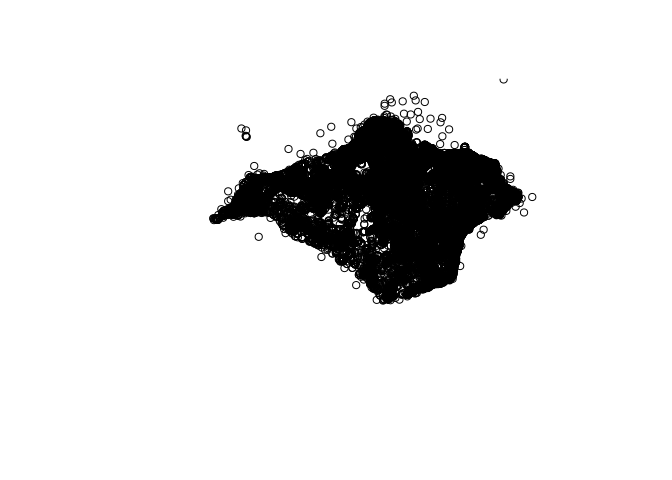
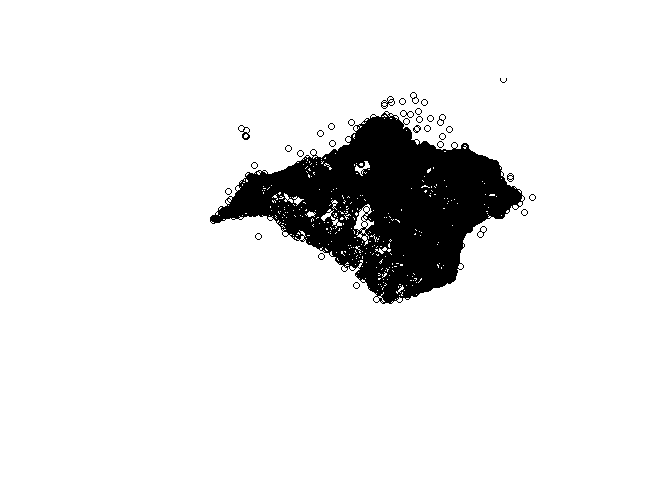
update .md

diff --git a/README.md b/README.md
@@ -47,15 +47,19 @@ cycleways_england = opq("England") %>%
 # The data included in this document is from www.openstreetmap.org. The data is made available under ODbL. runtime error: Query timed out in "query" at line 4 after 26 seconds. 
 ```
 
-The query stops with an error message after around 10 seconds. The same
+The query stops with an error message after around 30 seconds. The same
 query can be made with `osmextract` as follows, which reads-in almost
-100k linestrings in less than 10 seconds (after the data has been
+100k linestrings in less than 10 seconds, after the data has been
 downloaded in the compressed `.pbf` format and converted to the open
-standard `.gpkg` format, not evaluated):
+standard `.gpkg` format. The download-conversion operation of the OSM
+extract associated to England takes approximately a few minutes, and
+this operation must be executed only once. The following code chunk is
+not evaluated:
 
 ``` r
 library(osmextract)
-#> Data (c) OpenStreetMap contributors, ODbL 1.0. https://www.openstreetmap.org/copyright
+#> Data (c) OpenStreetMap contributors, ODbL 1.0. https://www.openstreetmap.org/copyright.
+#> Any product made from OpenStreetMap must cite OSM as the data source.
 #> Geofabrik data are taken from https://download.geofabrik.de/
 #> For usage details of bbbike data see https://download.bbbike.org/osm/
 ```
@@ -66,10 +70,11 @@ cycleways_england = oe_get(
   quiet = FALSE,
   query = "SELECT * FROM 'lines' WHERE highway = 'cycleway'"
 )
+par(mar = rep(0.1, 4))
 plot(sf::st_geometry(cycleways_england))
 ```
 
-<img src="https://user-images.githubusercontent.com/1825120/87085554-f77e8b00-c227-11ea-914a-936b8be23132.png" width="100%" />
+<img src="https://user-images.githubusercontent.com/22221146/89990770-22bf2480-dc83-11ea-9092-764594534959.png" width="100%" />
 
 The package is designed to complement `osmdata`, which has advantages
 over `osmextract` for small datasets: `osmdata` is likely to be quicker
@@ -119,18 +124,19 @@ library(sf)
 ## Basic usage
 
 Give `osmextract` a place name and it will try to find it in a list of
-names in the specified provider (Geofabrik by default). If the name you
-give it matches a place, it will download and import the associated data
-into R. The function `oe_get()` downloads (if not already downloaded)
-and reads-in data from OSM extract providers as an `sf` object. By
-default `oe_get()` imports the ‘lines’ layer, but any layer can be
-read-in by changing the `layer` argument:
+names in the specified provider
+([Geofabrik](https://www.geofabrik.de/data/download.html) by default).
+If the name you give it matches a place, it will download and import the
+associated data into R. The function `oe_get()` downloads (if not
+already downloaded) and reads-in data from OSM extract providers as an
+`sf` object. By default `oe_get()` imports the ‘lines’ layer, but any
+layer can be read-in by changing the `layer` argument:
 
 ``` r
-osm_lines = oe_get("Isle of Wight")
-osm_points = oe_get("Isle of Wight", layer = "points")
+osm_lines = oe_get("Isle of Wight", stringsAsFactors = FALSE)
+osm_points = oe_get("Isle of Wight", layer = "points", stringsAsFactors = FALSE)
 nrow(osm_lines)
-#> [1] 44845
+#> [1] 44849
 nrow(osm_points)
 #> [1] 59009
 plot(osm_lines$geometry, xlim = c(-1.59, -1.1), ylim = c(50.5, 50.8))
@@ -164,7 +170,7 @@ plot(osm_major_roads["highway"], key.pos = 1)
 <img src="man/figures/README-iow1-1.png" width="100%" />
 
 The same steps can be used to get other OSM datasets (note use of `quiet
-= FALSE` to show additional message, examples not run):
+= FALSE` to show additional message, examples, not run):
 
 ``` r
 test_malta = oe_get("Malta", quiet = FALSE)
